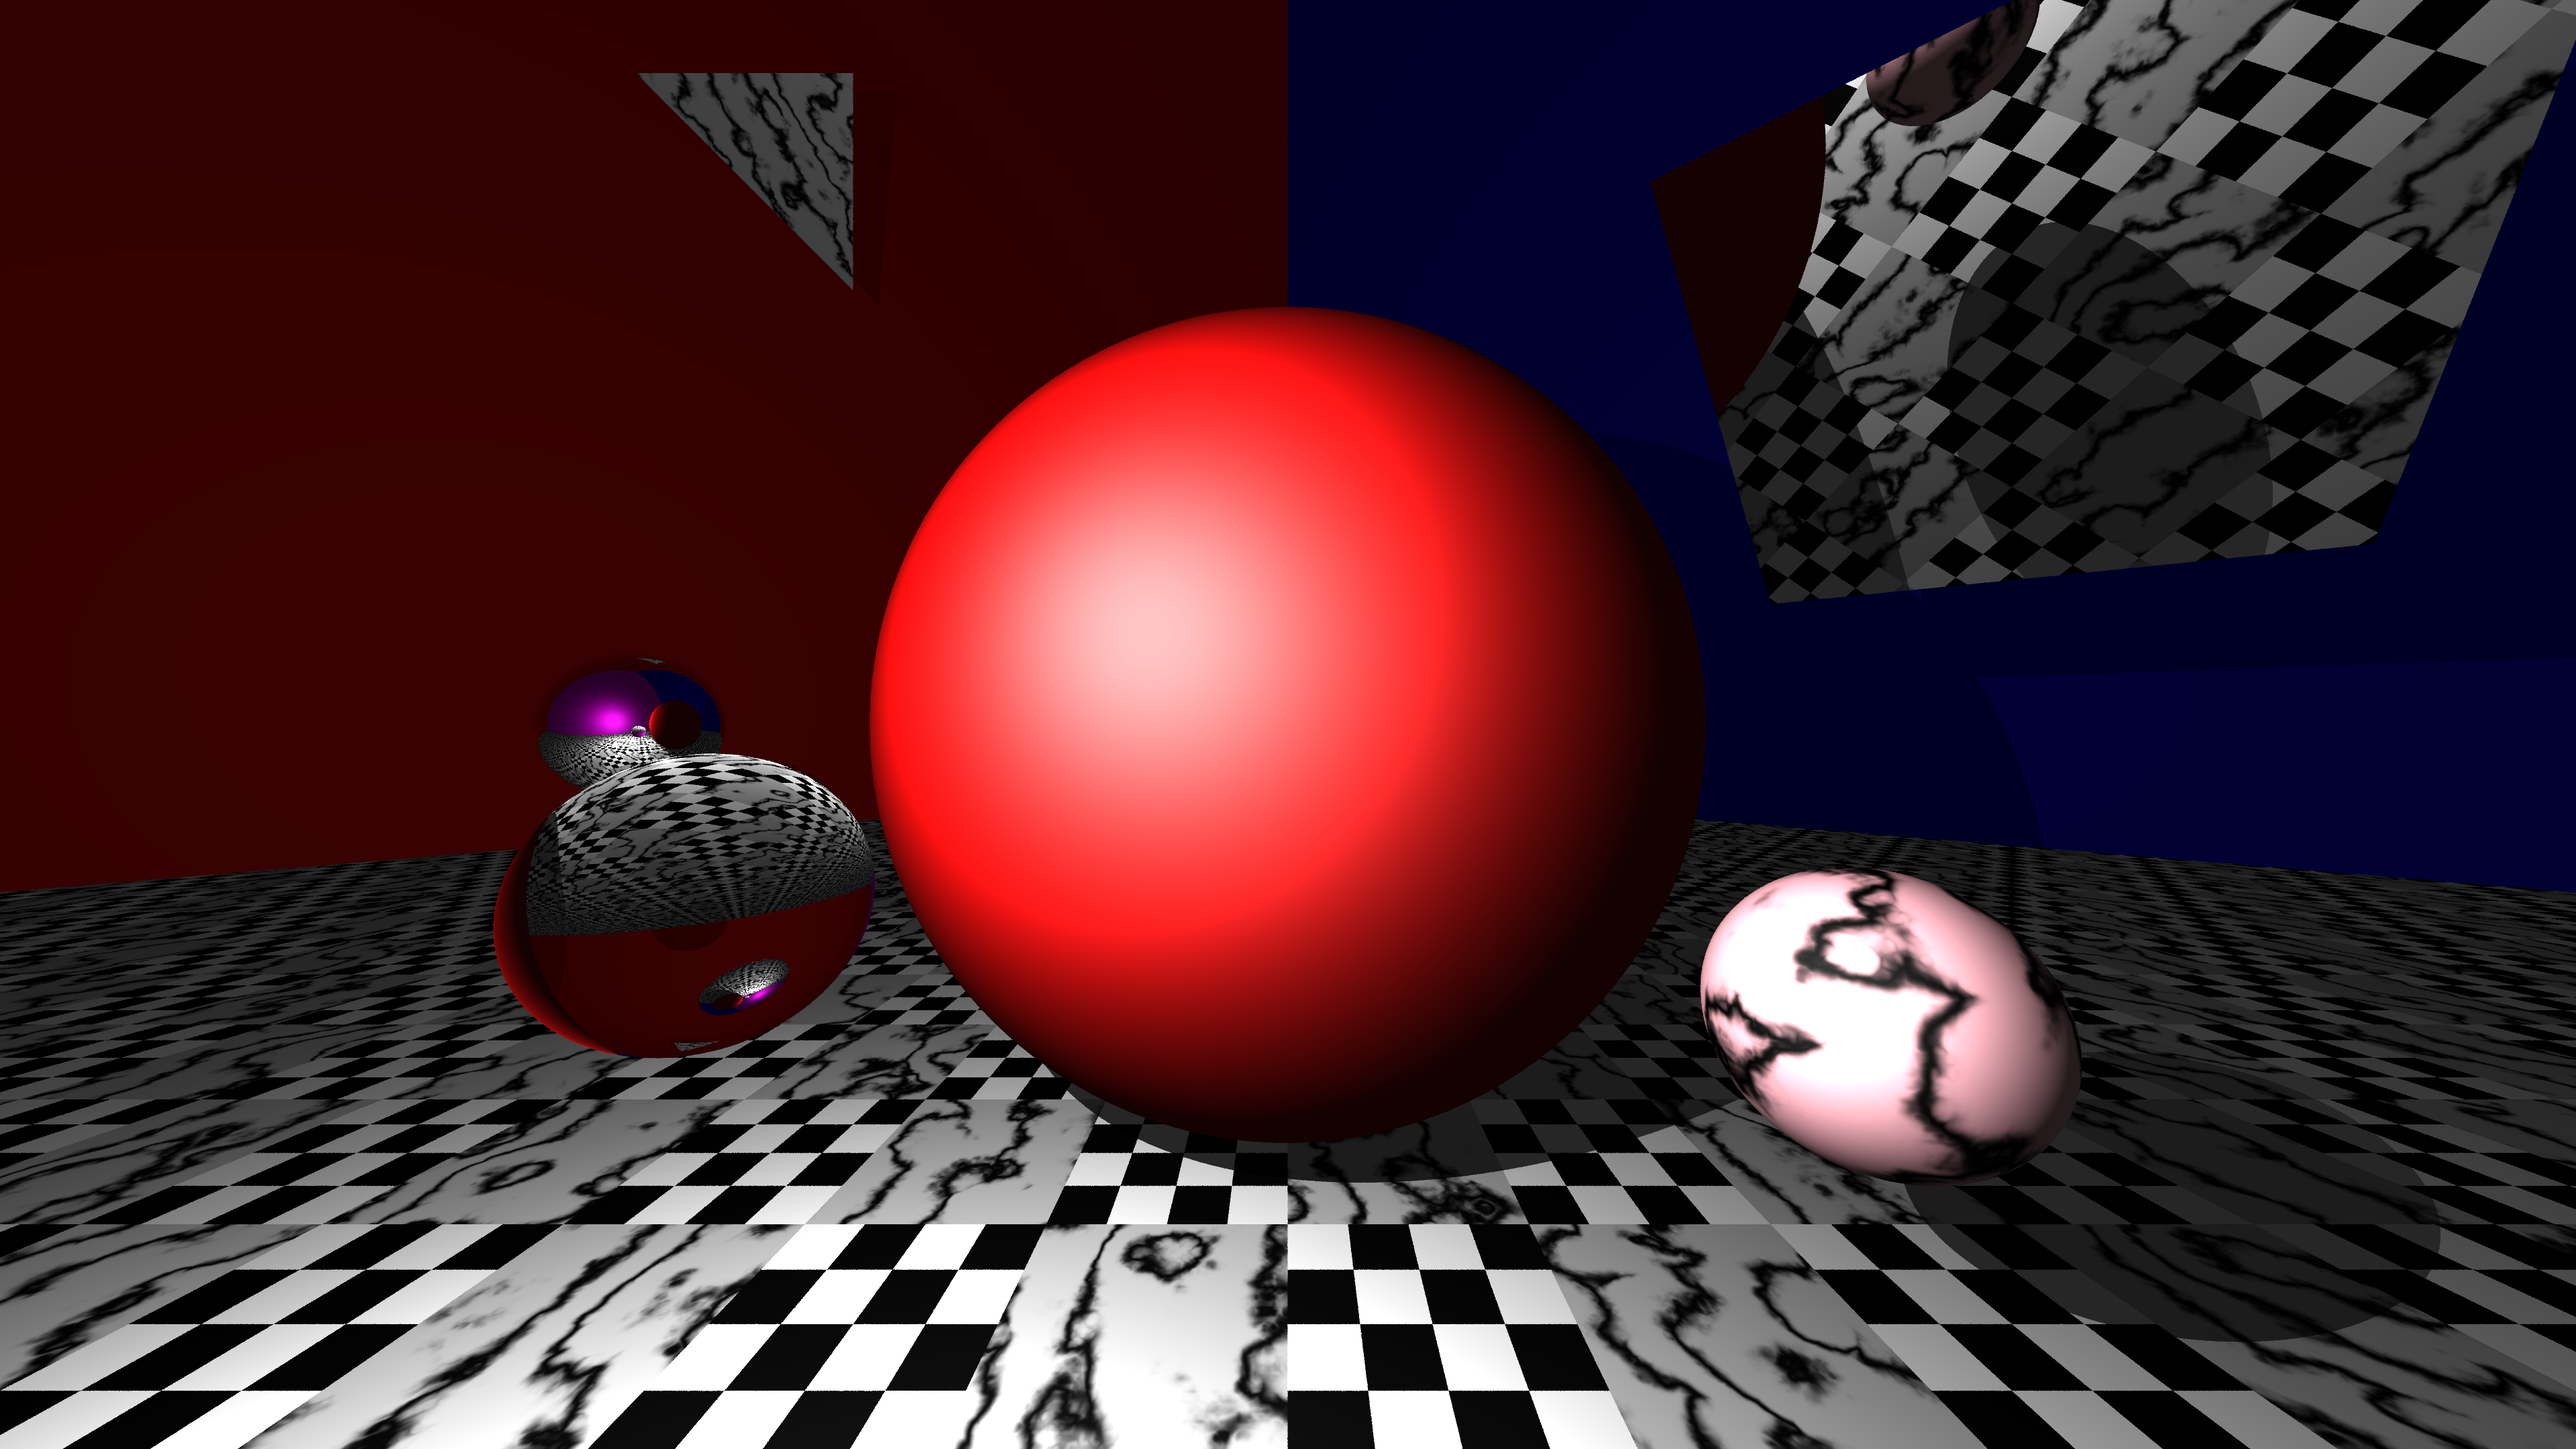
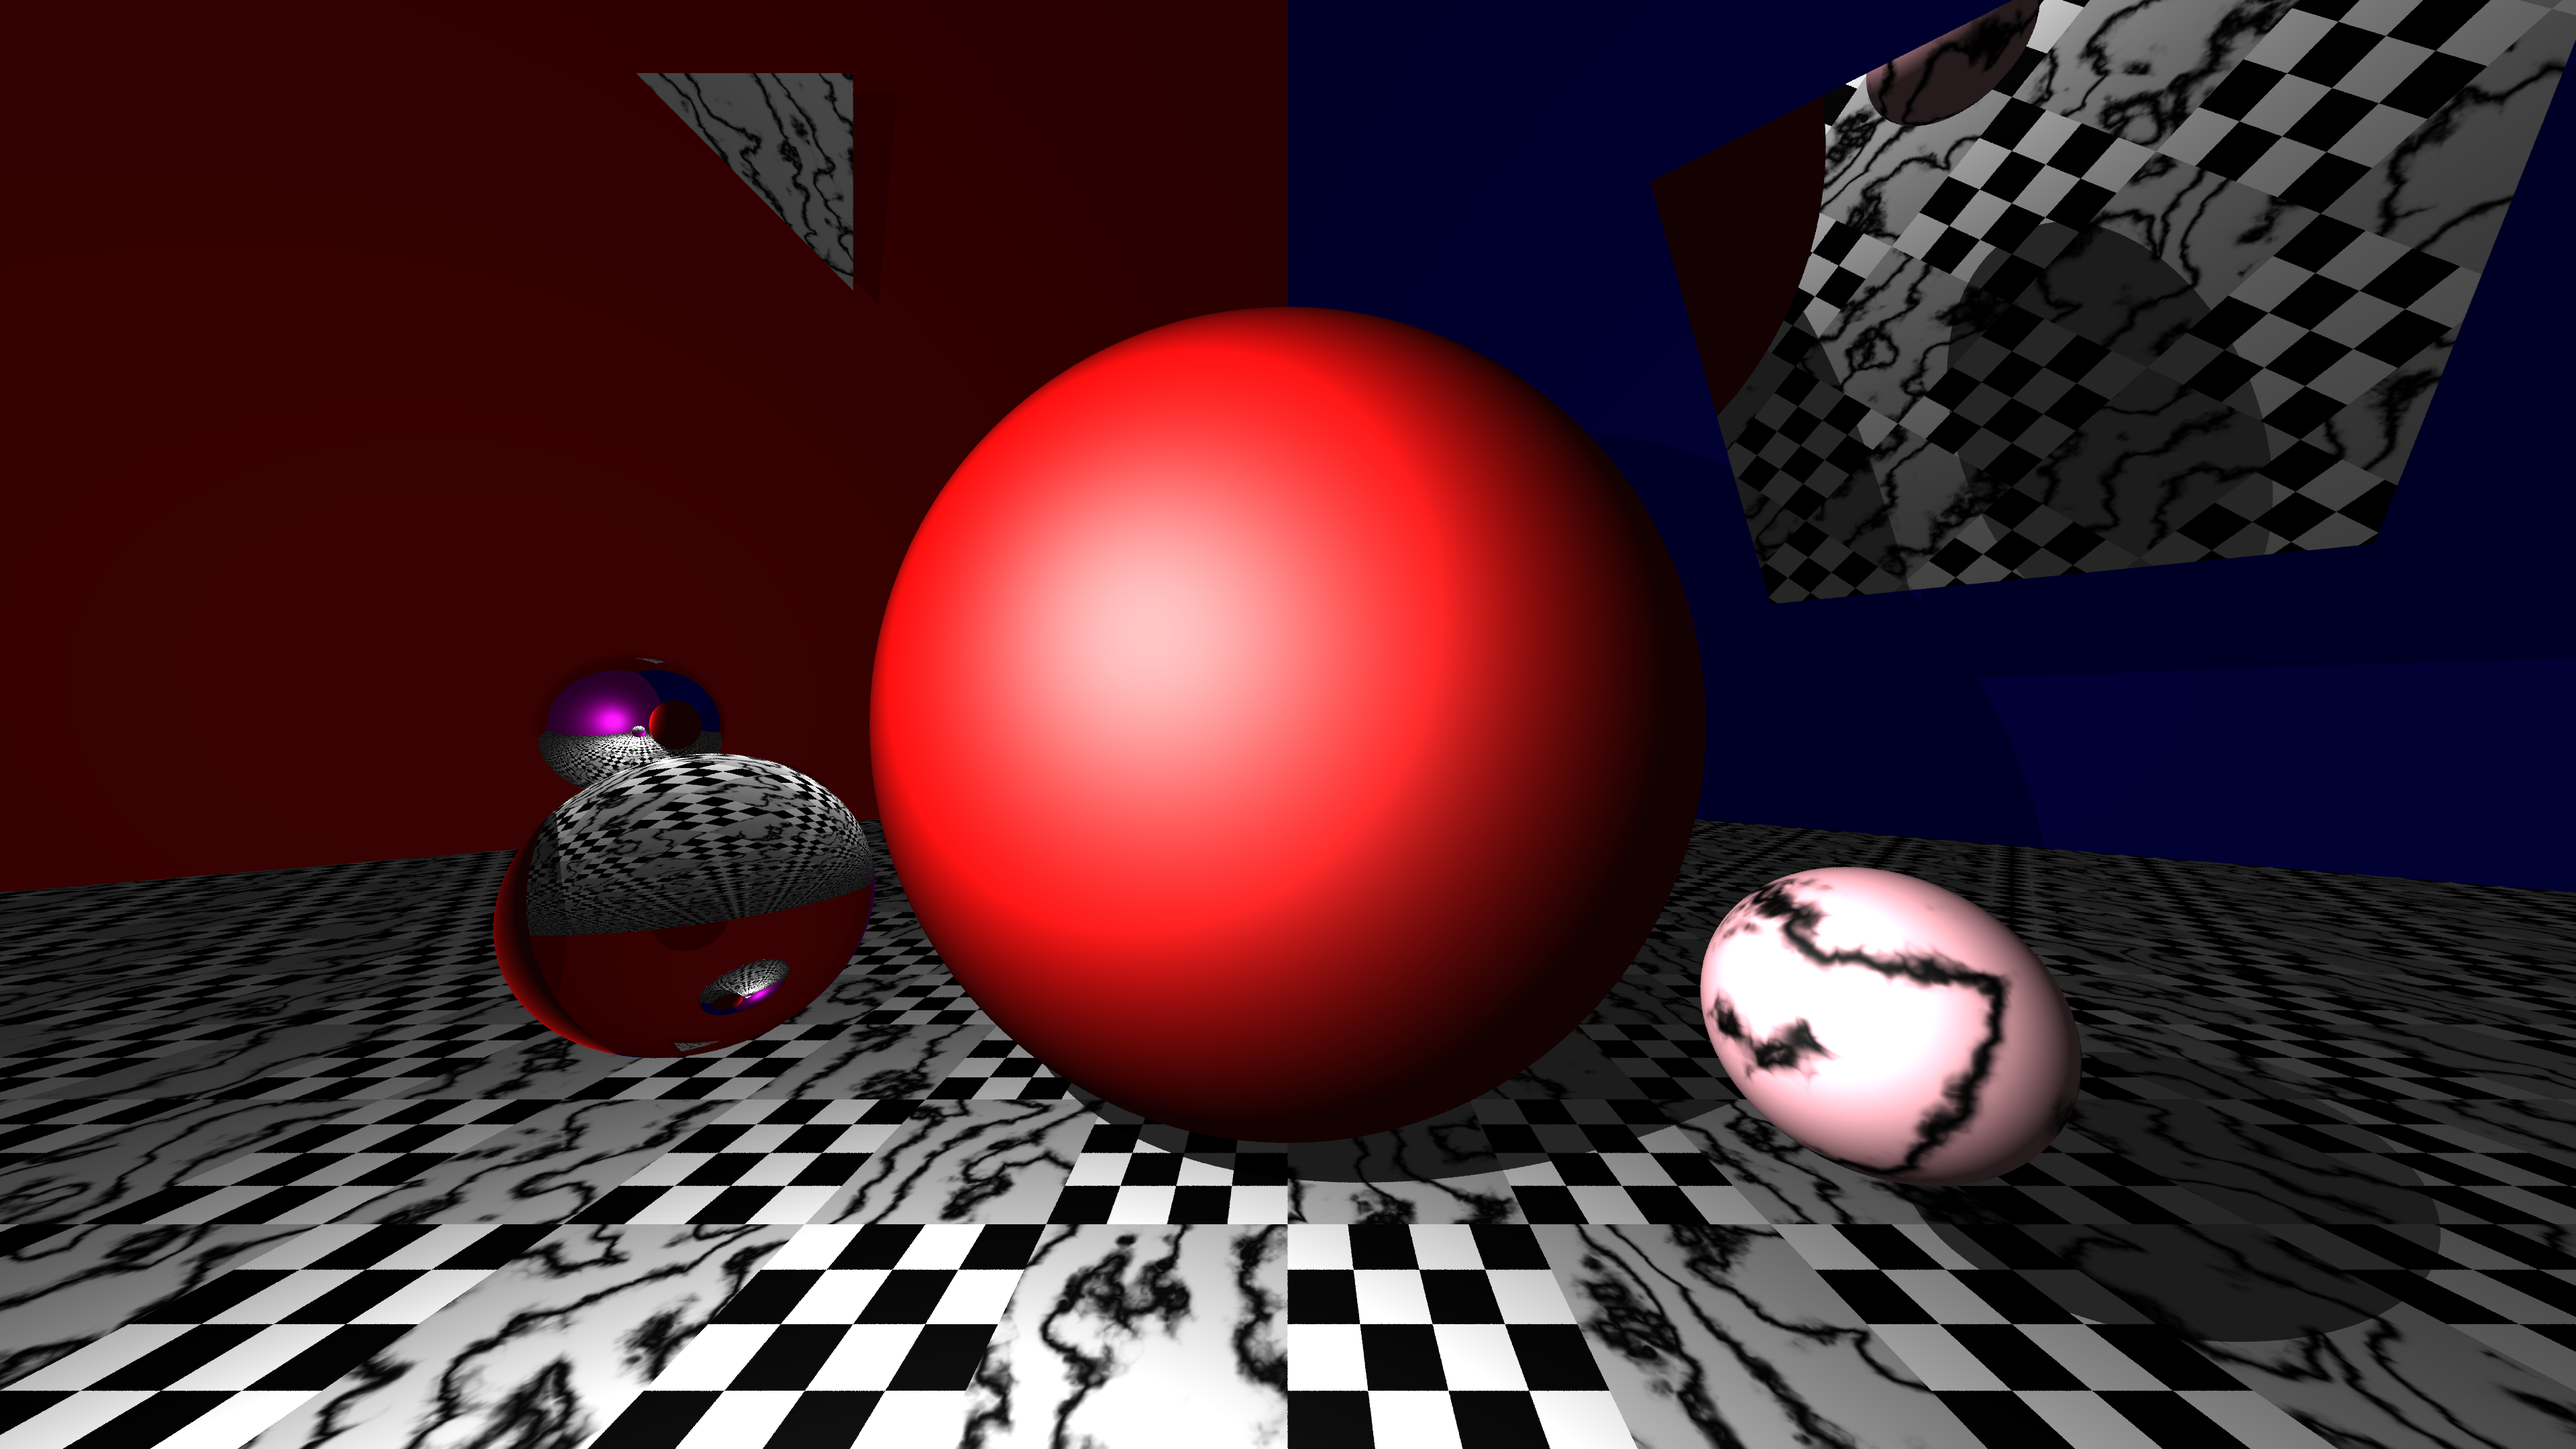
fix normal directions for objects. introduce inside function for sphere

diff --git a/src/tracer/object.rs b/src/tracer/object.rs
@@ -10,14 +10,22 @@ mod plane_tests;
 #[cfg(test)]
 mod triangle_tests;
 
+/* make sure normal points the right way for triangle/plane/sphere */
+fn _orient_normal(n: DVec3, r: &Ray) -> DVec3 {
+    if n.dot(r.dir) > 0.0 { -n } else { n }
+}
+
 pub trait Object: Sync {
     // unit length normal at p
-    fn normal_at(&self, p: DVec3) -> DVec3;
+    fn normal_for_at(&self, r: &Ray, p: DVec3) -> DVec3;
+    fn inside(&self, _r: &Ray) -> bool { false }
     fn hit(&self, r: &Ray) -> Option<Hit>;
     fn material(&self) -> &Material;
 }
 
-/* FIGURE OUT BEING INSIDE. CANT BE INSIDE PLANES OR TRIANGLES. (OR RECTANGLES)*/
+pub struct Cuboid {
+
+}
 
 pub struct Rectangle {
     tria: (Triangle, Triangle),
@@ -43,12 +51,10 @@ impl Rectangle {
 }
 
 impl Object for Rectangle {
-    fn material(&self) -> &Material {
-        &self.material
-    }
+    fn material(&self) -> &Material { &self.material }
 
-    fn normal_at(&self, p: DVec3) -> DVec3 {
-        self.tria.0.normal_at(p)
+    fn normal_for_at(&self, r: &Ray, p: DVec3) -> DVec3 {
+        self.tria.0.normal_for_at(r, p)
     }
 
     fn hit(&self, r: &Ray) -> Option<Hit> {
@@ -60,7 +66,7 @@ impl Object for Rectangle {
     }
 }
 
-/* barycentir interpolation ~ different texture at each point of triangle */
+/* barycentric interpolation ~ different texture at each point of triangle */
 /* normal inside?? */
 pub struct Triangle {
     a: DVec3,
@@ -88,7 +94,9 @@ impl Triangle {
 impl Object for Triangle {
     fn material(&self) -> &Material { &self.material }
 
-    fn normal_at(&self, _p: DVec3) -> DVec3 { self.norm }
+    fn normal_for_at(&self, r: &Ray, _p: DVec3) -> DVec3 {
+        _orient_normal(self.norm, r)
+    }
 
     /* barycentric triangle intersection with Cramer's rule */
     fn hit(&self, r: &Ray) -> Option<Hit> {
@@ -138,7 +146,7 @@ impl Object for Triangle {
             Hit::new(
                 t,
                 self,
-                r.at(t),
+                r,
             )
         }
     }
@@ -165,7 +173,9 @@ impl Plane {
 impl Object for Plane {
     fn material(&self) -> &Material { &self.material }
     // check that point is on plane?? or assume we are smart
-    fn normal_at(&self, _p: DVec3) -> DVec3 { self.norm }
+    fn normal_for_at(&self, r: &Ray, _p: DVec3) -> DVec3 {
+        _orient_normal(self.norm, r)
+    }
 
     fn hit(&self, r: &Ray) -> Option<Hit> {
         /* check if plane and ray are parallel. use epsilon instead?
@@ -181,7 +191,7 @@ impl Object for Plane {
             Hit::new(
                 t,
                 self,
-                r.at(t),
+                r,
             )
         }
     }
@@ -205,10 +215,15 @@ impl Sphere {
 }
 
 impl Object for Sphere {
+    fn inside(&self, r: &Ray) -> bool {
+        self.origin.distance_squared(r.origin + crate::EPSILON*r.dir)
+            < self.radius*self.radius
+    }
+
     fn material(&self) -> &Material { &self.material }
 
-    fn normal_at(&self, p: DVec3) -> DVec3 {
-        (p - self.origin) / self.radius
+    fn normal_for_at(&self, r: &Ray, p: DVec3) -> DVec3 {
+        _orient_normal((p - self.origin) / self.radius, r)
     }
 
     fn hit(&self, r: &Ray) -> Option<Hit> {
@@ -234,7 +249,7 @@ impl Object for Sphere {
         Hit::new(
             t,
             self,
-            r.at(t),
+            r,
         )
      }
 }

diff --git a/src/tracer/illumination.rs b/src/tracer/illumination.rs
@@ -33,8 +33,7 @@ pub fn phong_illum(
         let lu = l.normalize();
 
         /* diffuse term */
-        shaded += h.n.dot(lu).max(0.0) * color;
-
+        shaded += h.norm.dot(lu).max(0.0) * color;
 
         /*
         /* l mirrored around sphere normal. pointing from light to hit point */
@@ -44,7 +43,7 @@ pub fn phong_illum(
 
         /* halfway vector between camera and light. (Blinn-Phong model) */
         let halfway = (lu - h.p.normalize()) / (lu - h.p.normalize()).length();
-        shaded += h.n.dot(halfway).max(0.0).powf(q) * spec_coeff;
+        shaded += h.norm.dot(halfway).max(0.0).powf(q) * spec_coeff;
 
         /* scale diffuse and specular by squared distance to light */
         shaded /= l.length_squared();
@@ -57,27 +56,24 @@ pub fn phong_illum(
 pub fn reflect_ray(h: &Hit) -> Option<Ray> {
     Some(Ray {
         origin: h.p,
-        dir: h.p - 2.0 * h.n * h.p.dot(h.n)
+        dir: h.p - 2.0 * h.norm * h.p.dot(h.norm)
     })
 }
 
 pub fn refract_ray(h: &Hit, r: &Ray) -> Option<Ray> {
     const ETA: f64 = 1.5;
-
-    let inside = h.n.dot(r.dir) > 0.0;
-    let eta_ratio = if inside { ETA } else { 1.0 / ETA };
-    let norm = if inside { -h.n } else { h.n };
+    let eta_ratio = if h.object.inside(r) { ETA } else { 1.0 / ETA };
 
     /* Snell-Descartes law */
     let up = r.dir.normalize();
-    let cos_in = norm.dot(-up).min(1.0);
+    let cos_in = h.norm.dot(-up).min(1.0);
     let sin_out = (1.0 - cos_in*cos_in)*eta_ratio*eta_ratio;
 
     if sin_out > 1.0 {
         return reflect_ray(h);
     }
 
-    let dir = eta_ratio*up + norm *
+    let dir = eta_ratio*up + h.norm *
         (eta_ratio*cos_in - (1.0 - sin_out).sqrt());
 
     Some(Ray {

diff --git a/src/tracer/hit.rs b/src/tracer/hit.rs
@@ -1,25 +1,26 @@
 use crate::DVec3;
 use crate::tracer::object::Object;
+use crate::tracer::ray::Ray;
 
 pub struct Hit<'a> {
     pub t: f64,
     pub object: &'a dyn Object,
     /* point where ray hit object */
     pub p: DVec3,
-    /* sphere normal at hit point.
-     * if inside points towards origin otherwise not */
-    pub n: DVec3,
+    /* sphere normal at hit point pointing towards incoming ray.
+     * for sphere, points always away from origin */
+    pub norm: DVec3,
 }
 
-impl Hit<'_> {
-    /* why can't use Self type here?? */
-    pub fn new(t: f64, o: &dyn Object, p: DVec3) -> Option<Hit> {
+impl<'a, 'b> Hit<'_> {
+    /* why can't use Self type here?? cus self cant have lifetime?? */
+    pub fn new(t: f64, o: &'a dyn Object, r: &'b Ray) -> Option<Hit<'a>> {
         /* p and n not always needed. computing for every hit slows rendering */
         Some(Hit {
             t: t,
             object: o,
-            p: p,
-            n: o.normal_at(p),
+            p: r.at(t),
+            norm: o.normal_for_at(r, r.at(t)),
         })
     }
 }
